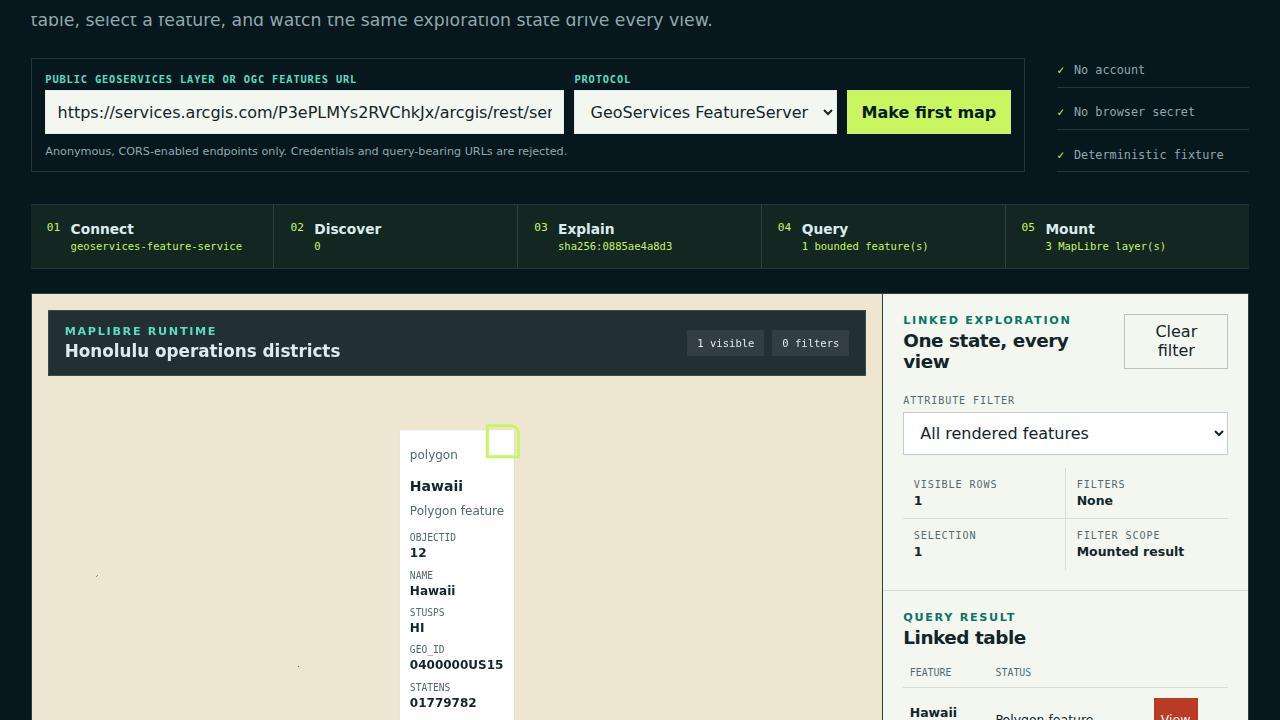
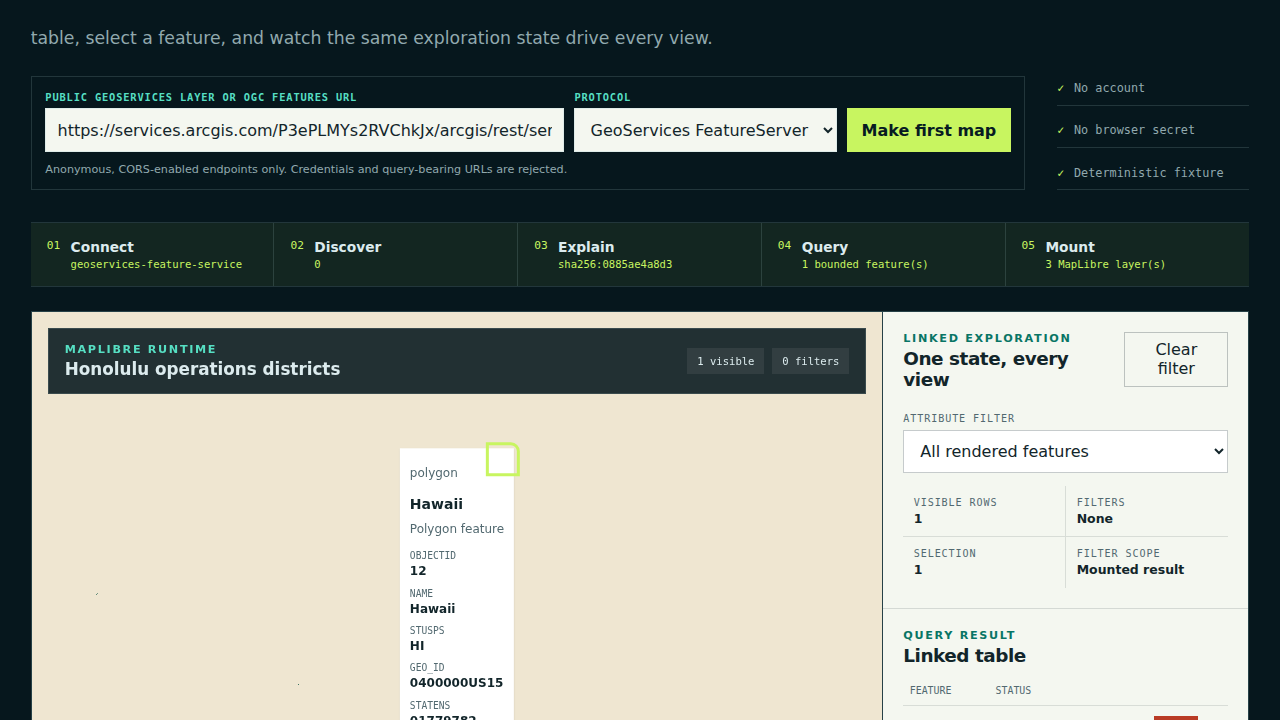
feat(samples): automate First Map qualification renewal
Refs #543

diff --git a/test/sample-contract.test.ts b/test/sample-contract.test.ts
@@ -30,7 +30,11 @@ import {
 
 const readJson = async (path: string) => JSON.parse(await readFile(path, "utf8"));
 const execFileAsync = promisify(execFile);
-const validationTime = { now: "2026-07-17T12:00:00.000Z" };
+const catalogEvidenceTime = (await readJson("examples/maplibre-quickstart/evidence/live.v1.json")).observedAt;
+const validationTime = {
+  now: catalogEvidenceTime,
+  qualificationBootstrapSampleId: "maplibre-quickstart",
+};
 const goldenJourneyIds = [
   "first-map",
   "service-explorer",
@@ -1011,6 +1015,8 @@ spawnSync("npm", ["run", "demo:wrong:build", "--silent"], {
 
     const promoteIncident = async () => {
       const catalog = await readJson("samples/catalog.v2.json");
+      catalog.goldenJourneys.find((journey: { id: string }) => journey.id === "first-map").status = "planned";
+      catalog.samples.find((candidate: { id: string }) => candidate.id === "maplibre-quickstart").track = "recipe";
       catalog.goldenJourneys.find((journey: { id: string }) => journey.id === "incident-operations").status =
         "qualified";
       const sample = catalog.samples.find(
@@ -1020,10 +1026,14 @@ spawnSync("npm", ["run", "demo:wrong:build", "--silent"], {
       sample.validationProfile = "golden-browser";
       return { catalog, sample };
     };
+    const incidentValidationTime = {
+      ...validationTime,
+      qualificationBootstrapSampleId: "realtime-incident-dashboard",
+    };
 
     const unsupported = await promoteIncident();
     unsupported.sample.supportTier = "experimental";
-    await expect(validateCatalog(unsupported.catalog, packageJson, validationTime)).rejects.toThrow(
+    await expect(validateCatalog(unsupported.catalog, packageJson, incidentValidationTime)).rejects.toThrow(
       "realtime-incident-dashboard: golden samples must be supported",
     );
 
@@ -1033,18 +1043,18 @@ spawnSync("npm", ["run", "demo:wrong:build", "--silent"], {
       reason: "Promotion regression fixture.",
       targetRelease: "0.2.0-beta.0",
     };
-    await expect(validateCatalog(inactive.catalog, packageJson, validationTime)).rejects.toThrow(
+    await expect(validateCatalog(inactive.catalog, packageJson, incidentValidationTime)).rejects.toThrow(
       "realtime-incident-dashboard: golden samples must be active",
     );
 
     const missingFixture = await promoteIncident();
     missingFixture.sample.evidence.fixture.status = "planned";
-    await expect(validateCatalog(missingFixture.catalog, packageJson, validationTime)).rejects.toThrow(
+    await expect(validateCatalog(missingFixture.catalog, packageJson, incidentValidationTime)).rejects.toThrow(
       "realtime-incident-dashboard: golden samples require executed fixture evidence",
     );
 
     const missingLive = await promoteIncident();
-    await expect(validateCatalog(missingLive.catalog, packageJson, validationTime)).rejects.toThrow(
+    await expect(validateCatalog(missingLive.catalog, packageJson, incidentValidationTime)).rejects.toThrow(
       "realtime-incident-dashboard: golden samples require current executed live evidence",
     );
 
@@ -1081,7 +1091,7 @@ spawnSync("npm", ["run", "demo:wrong:build", "--silent"], {
       await mkdir("test-results", { recursive: true });
       await writeFile(evidencePath, `${JSON.stringify(executedEvidence, null, 2)}\n`);
       await expect(
-        validateCatalog(metadataOnly.catalog, packageJson, { ...validationTime, verifyCheckout: false }),
+        validateCatalog(metadataOnly.catalog, packageJson, { now: validationTime.now, verifyCheckout: false }),
       ).rejects.toThrow("realtime-incident-dashboard: missing gate receipt directory");
       await expect(
         validateCatalog(metadataOnly.catalog, packageJson, {

diff --git a/samples/contract/v2/README.md b/samples/contract/v2/README.md
@@ -174,5 +174,7 @@ flag, write a fresh envelope to the runner-provided per-run path, and reject
 exact forwarded credential values in the envelope or any declared artifact. See
 [`examples/_kit/README.md`](../../../examples/_kit/README.md) for runner usage.
 Qualification receipts expire after seven days. The First Map release workflow
-regenerates, verifies, and commits its complete canonical receipt set twice a
-week; a failed refresh remains visible while the prior set is still current.
+refreshes the canonical live observation and catalog expiry, commits that
+source snapshot, then regenerates, verifies, and commits its complete receipt
+set twice a week. It pushes neither commit unless the entire transaction
+passes; a failed refresh remains visible while the prior set is still current.
